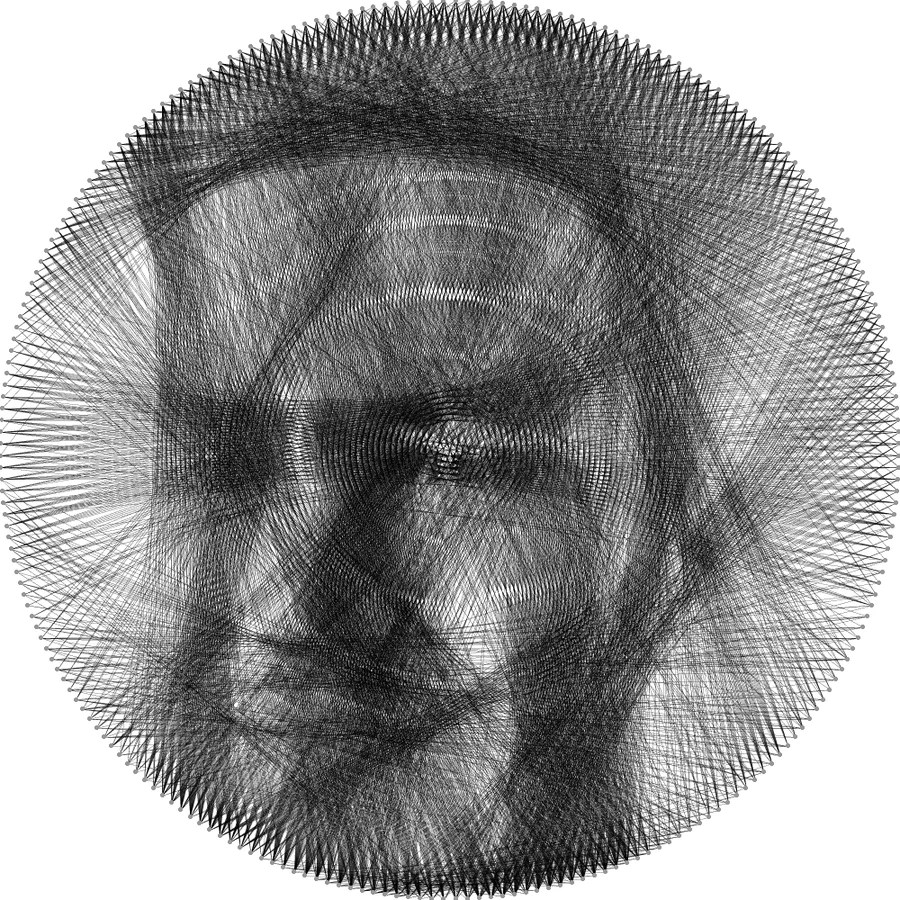
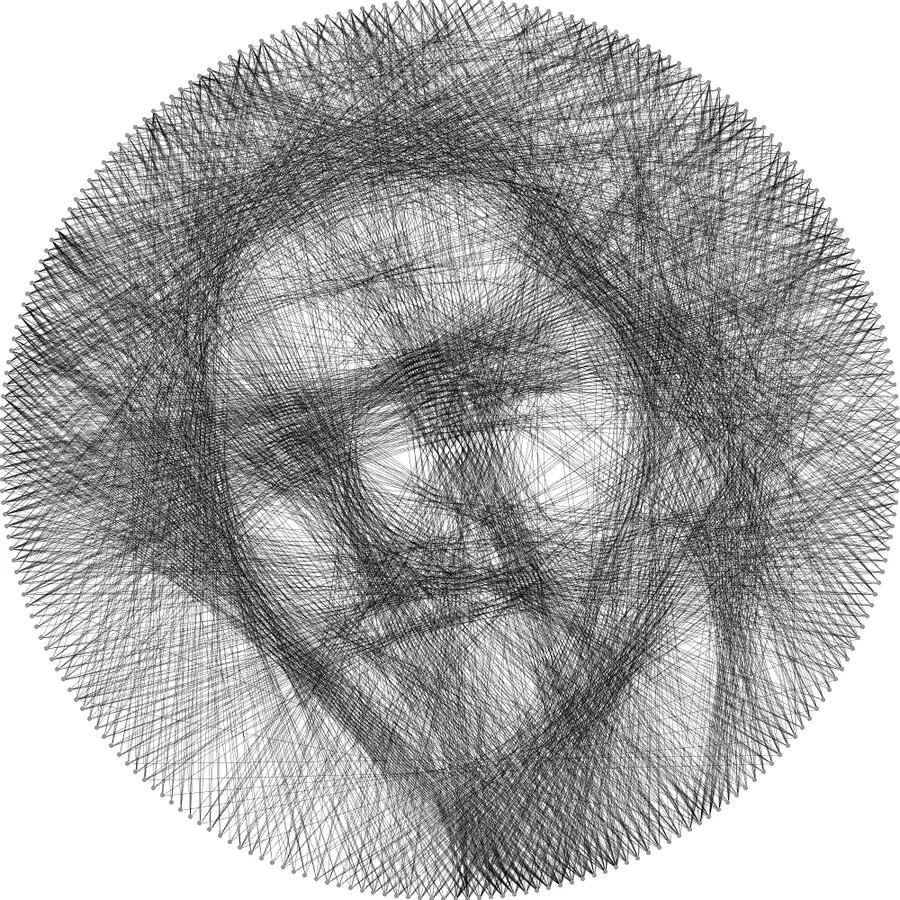
Accueil téléphone : visuel d'abord ; nouveau portrait du jeune homme en fil
- Visuel animé avant le titre sur téléphone, titre visible sans défiler ;
  la barre prix + Commander apparaît tant que les boutons du haut ne sont
  pas à l'écran.
- Jeune homme remplacé (photo du propriétaire, recadrage serré, fond retiré)
  dans « Ma photo va-t-elle rendre bien ? » et « Pour offrir » (page Kit).

Claude-Session: https://claude.ai/code/session_01Y6WoezmvhXdQxNj3BiBcQL

diff --git a/apps/web/tests/e2e/home.spec.ts b/apps/web/tests/e2e/home.spec.ts
@@ -275,12 +275,24 @@ test("sur ordinateur, les 5 écrans du générateur tiennent sur une ligne, sans
   expect(new Set(tops).size).toBe(1);
 });
 
-test("premier écran : titre, prix et bouton visibles sans défiler", async ({ page }) => {
+test("premier écran : visuel, titre, prix et bouton visibles sans défiler", async ({ page, isMobile }) => {
   await page.emulateMedia({ reducedMotion: "reduce" });
   await page.goto("/fr");
   await expect(page.locator(".hero-price strong")).toHaveText("4 900 DA");
-  await expect(page.locator(".hero-price")).toBeInViewport();
-  await expect(page.getByRole("link", { name: "Offrir le kit" }).first()).toBeInViewport();
+  await expect(page.locator("#hero-title")).toBeInViewport({ ratio: 1 });
+  if (isMobile) {
+    // Téléphone : le visuel animé d'abord, puis le titre ; prix et bouton dans la barre du bas.
+    const media = (await page.locator(".hero-media").boundingBox())!;
+    const title = (await page.locator("#hero-title").boundingBox())!;
+    expect(media.y).toBeLessThan(title.y);
+    const bar = page.locator(".sticky-bar");
+    await expect(bar).toHaveAttribute("data-visible", "true");
+    await expect(bar.getByText("4 900 DA")).toBeInViewport();
+    await expect(bar.getByRole("link", { name: "Commander" })).toBeInViewport();
+  } else {
+    await expect(page.locator(".hero-price")).toBeInViewport();
+    await expect(page.getByRole("link", { name: "Offrir le kit" }).first()).toBeInViewport();
+  }
 });
 
 for (const locale of ["fr", "ar"] as const) {

diff --git a/apps/web/src/app/[locale]/page.tsx b/apps/web/src/app/[locale]/page.tsx
@@ -88,7 +88,7 @@ export default async function Home({ params }: { params: Promise<{ locale: strin
         {/* Héros : carte visuelle (pastille + médaillon) et texte avec ligne de preuves. */}
         <section className="hero" aria-labelledby="hero-title">
           <div className="wrap hero-grid">
-            <div className="hero-media" data-reveal>
+            <div className="hero-media">
               <span className="badge">
                 <svg width="16" height="16" viewBox="0 0 24 24" fill="none" stroke="currentColor" strokeWidth="1.8" strokeLinecap="round" strokeLinejoin="round" aria-hidden="true">
                   <rect x="3" y="8" width="18" height="13" rx="1.5" />
@@ -101,7 +101,7 @@ export default async function Home({ params }: { params: Promise<{ locale: strin
                 <img src="/visuels/caftan-photo.webp" alt={t("hero.medallion")} width={300} height={300} />
               </figure>
             </div>
-            <div className="hero-copy" data-reveal style={{ ["--i" as string]: 1 }}>
+            <div className="hero-copy">
               <h1 id="hero-title">
                 {t("hero.titleStart")} <em>{t("hero.titleAccent")}</em>
               </h1>

diff --git a/apps/web/src/styles/globals.css b/apps/web/src/styles/globals.css
@@ -4496,9 +4496,13 @@ h1 em {
   font-size: var(--step--1);
 }
 
+/*
+ * Téléphone et tablette (choix du propriétaire) : le visuel animé d'abord, assez
+ * petit pour que le titre reste visible sans défiler, puis le texte.
+ */
 @media (max-width: 59.99rem) {
-  .hero-copy {
-    order: -1;
+  .hero-grid {
+    gap: 1.5rem;
   }
 
   .hero-copy h1 {
@@ -4510,8 +4514,21 @@ h1 em {
   }
 
   .hero-media {
-    inline-size: min(100%, 24rem);
+    inline-size: min(100%, 24rem, 40svh);
     justify-self: center;
+    padding: 0.75rem;
+    padding-block-start: 2.75rem;
+  }
+
+  .hero-media .badge {
+    inset-block-start: 0.6rem;
+    inset-inline-start: 0.6rem;
+    padding: 0.3rem 0.75rem;
+  }
+
+  .hero-media .medallion {
+    inline-size: 4.75rem;
+    border-width: 4px;
   }
 
   .hero .proof {

diff --git a/apps/web/src/components/StickyBar.tsx b/apps/web/src/components/StickyBar.tsx
@@ -12,7 +12,7 @@ export function StickyBar({ watchId, price, orderingOpen = false }: { watchId: s
   useEffect(() => {
     const el = document.getElementById(watchId);
     if (!el) return;
-    const io = new IntersectionObserver(([entry]) => setVisible(!entry.isIntersecting && entry.boundingClientRect.top < 0));
+    const io = new IntersectionObserver(([entry]) => setVisible(!entry.isIntersecting));
     io.observe(el);
     return () => io.disconnect();
   }, [watchId]);
